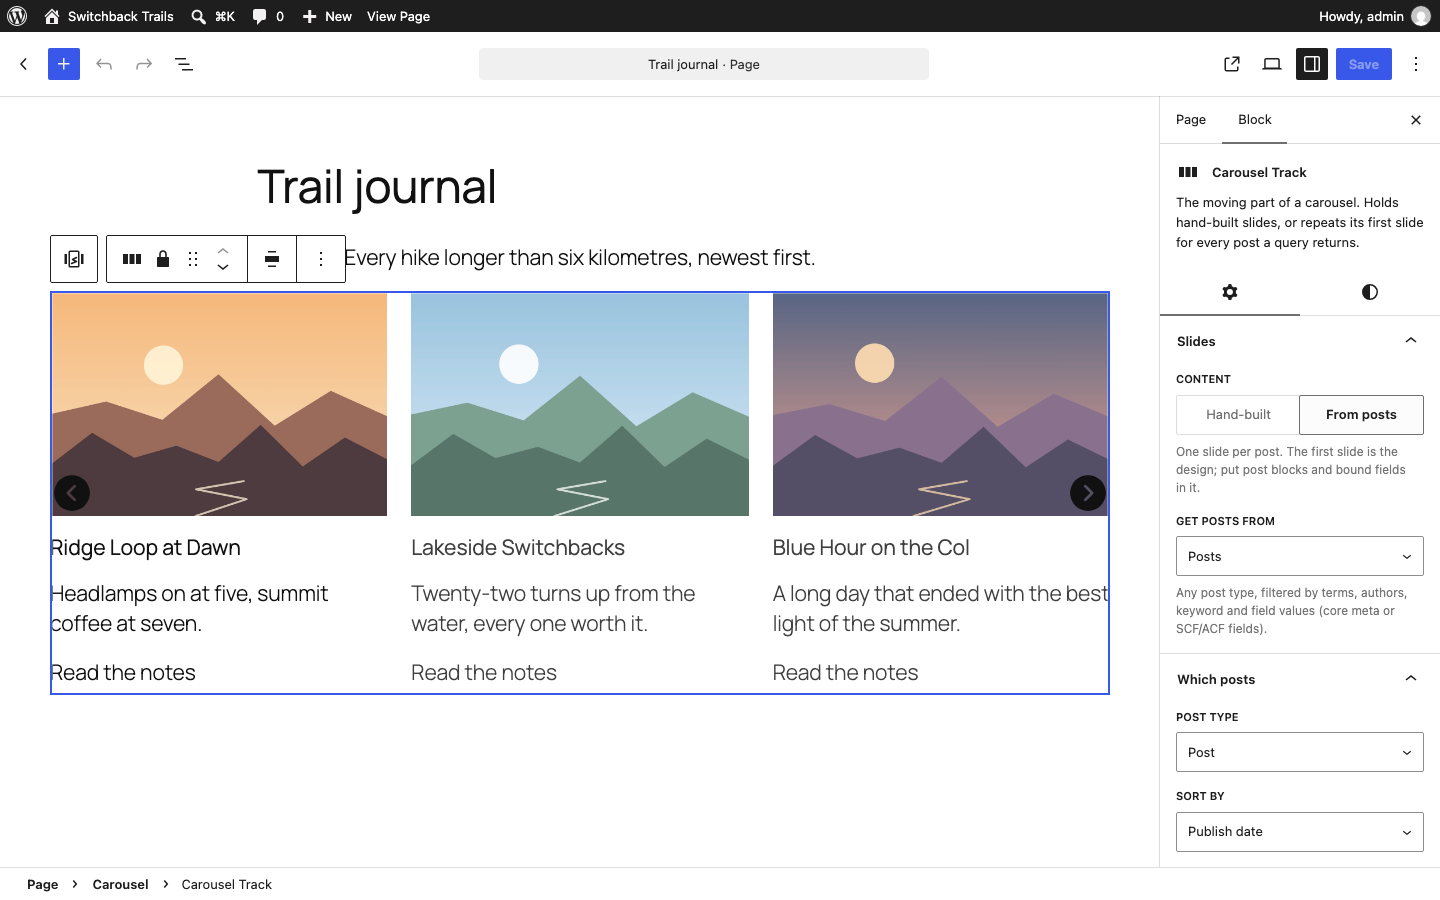
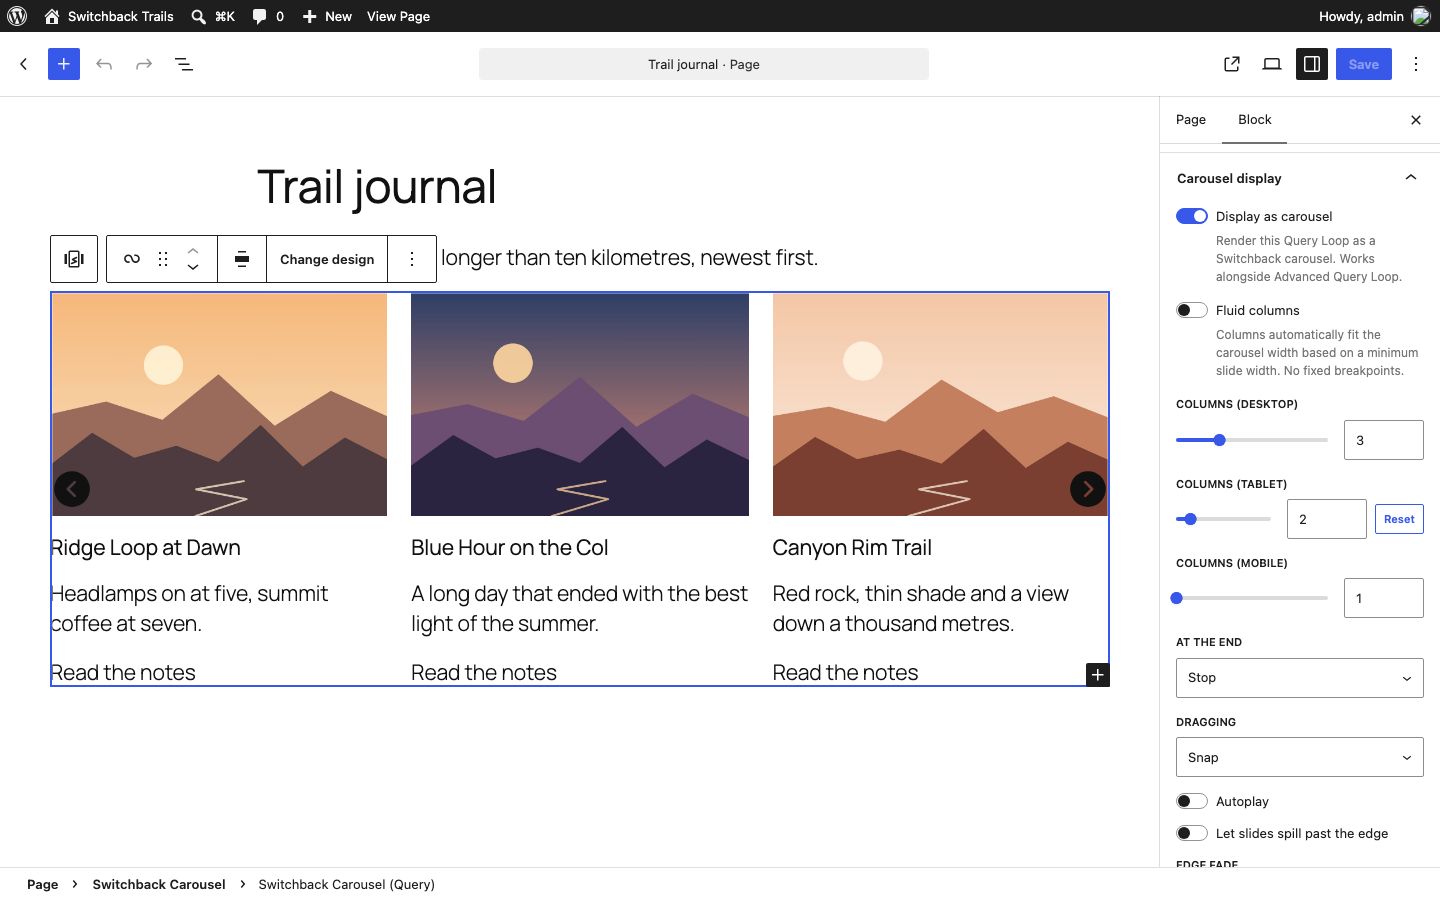
Prepare the WordPress.org release package and screenshots
- .distignore: `.claude` is now unanchored. Editor tooling leaves
  .claude/.cc-writes folders under src/, and deploy.sh rsyncs the
  working tree, so they would have shipped as hidden files, which the
  directory rejects. JS unit tests under src/**/test are excluded too.
- package.json `files` excludes the same tests so `npm run plugin-zip`
  (the zip used for first submission) matches the deployed file list.
- Add @wordpress/hooks, which variation.js imports, to dependencies.
- Screenshots 2 and 3 showed the removed "From posts" and field-rule
  UI. The seed now builds the journal from the Latest posts pattern with
  an AQL meta query (distance > 10), and capture.js shots the Carousel
  display panel and AQL's meta query builder. Captions updated.
- seed.php wraps post content in wp_slash(); wp_insert_post() was
  stripping the backslashes from the block JSON's \u escapes.
- capture.js looks up page IDs without an empty REST nonce, which WP
  7.1 rejects.
- README/readme.txt: tokens apply to AQL meta query values, not its
  date fields.

diff --git a/scripts/screenshots/capture.js b/scripts/screenshots/capture.js
@@ -1,7 +1,7 @@
 /**
  * Capture the WordPress.org screenshots from the wp-env dev site.
  *
- * 1. npm run env:start
+ * 1. npm run env:start (wp-env installs Advanced Query Loop)
  * 2. node scripts/screenshots/images.js
  * 3. npx wp-env run cli --env-cwd=wp-content/plugins/switchback-carousel wp eval-file scripts/screenshots/seed.php
  * 4. node scripts/screenshots/capture.js
@@ -14,9 +14,8 @@ const out = path.join( __dirname, '..', '..', '.wordpress-org' );
 const shot = ( name ) => path.join( out, name );
 
 async function pageId( page, slug ) {
-	const response = await page.request.get( `${ BASE }/?rest_route=/wp/v2/pages&slug=${ slug }&_fields=id`, {
-		headers: { 'X-WP-Nonce': await page.evaluate( () => window.wpApiSettings?.nonce ?? '' ) },
-	} );
+	// Published pages are public; an empty nonce would make REST reject the request.
+	const response = await page.request.get( `${ BASE }/?rest_route=/wp/v2/pages&slug=${ slug }&_fields=id` );
 	return ( await response.json() )[ 0 ].id;
 }
 
@@ -52,7 +51,11 @@ async function sidebarScrollTo( page, text ) {
 		.locator( '.interface-complementary-area' )
 		.getByText( text, { exact: true } )
 		.first()
-		.evaluate( ( el ) => el.scrollIntoView( { block: 'start' } ) );
+		.evaluate( ( el ) => {
+			el.scrollIntoView( { block: 'start' } );
+			// Clear the sticky block card and tabs at the top of the sidebar.
+			el.closest( '.interface-complementary-area' )?.scrollBy( 0, -56 );
+		} );
 }
 
 async function panel( page, title, open = true ) {
@@ -94,19 +97,20 @@ async function panel( page, title, open = true ) {
 	await front.screenshot( { path: shot( 'screenshot-4.png' ), clip: { x: 0, y: tips.y - 48, width: 1280, height: 760 } } );
 	await front.close();
 
-	// 2. Designing from posts in the editor.
+	// 2. A Query Loop shown as a carousel: the Carousel display panel.
 	await openEditor( page, 'trail-journal' );
-	await select( page, 'switchback-carousel/track' );
-	await panel( page, 'Slides', true );
-	await panel( page, 'Which posts', true );
+	await select( page, 'core/query' );
+	await panel( page, 'Carousel display', true );
+	await sidebarScrollTo( page, 'Carousel display' );
+	await page.waitForTimeout( 500 );
 	await page.screenshot( { path: shot( 'screenshot-2.png' ) } );
 
-	// 3. Field value filtering.
-	await panel( page, 'Slides', false );
-	await panel( page, 'Layout', false );
-	await sidebarScrollTo( page, 'Narrow it down' );
-	await page.waitForTimeout( 500 );
+	// 3. Advanced Query Loop's meta query filtering the same carousel.
+	await panel( page, 'Carousel display', false );
+	await page.getByRole( 'button', { name: 'Open Post Meta query builder' } ).click();
+	await page.waitForTimeout( 800 );
 	await page.screenshot( { path: shot( 'screenshot-3.png' ) } );
+	await page.keyboard.press( 'Escape' );
 
 	// 5. Controls and the icon picker.
 	await openEditor( page, 'trail-tips' );

diff --git a/scripts/screenshots/seed.php b/scripts/screenshots/seed.php
@@ -15,27 +15,11 @@ require_once ABSPATH . 'wp-admin/includes/media.php';
 $dir = dirname( __DIR__, 2 ) . '/artifacts/screenshots/images';
 
 // Start clean.
-foreach ( get_posts( array( 'post_type' => array( 'post', 'page', 'attachment', 'acf-field-group', 'acf-field' ), 'numberposts' => -1, 'post_status' => 'any', 'fields' => 'ids' ) ) as $id ) {
+foreach ( get_posts( array( 'post_type' => array( 'post', 'page', 'attachment' ), 'numberposts' => -1, 'post_status' => 'any', 'fields' => 'ids' ) ) as $id ) {
 	wp_delete_post( $id, true );
 }
 update_option( 'blogname', 'Switchback Trails' );
 update_option( 'blogdescription', 'Notes from the high country' );
-
-// SCF field group: distance (number) and hike date (date picker).
-if ( function_exists( 'acf_import_field_group' ) ) {
-	acf_import_field_group(
-		array(
-			'key'      => 'group_trail_details',
-			'title'    => 'Trail details',
-			'fields'   => array(
-				array( 'key' => 'field_trail_distance', 'name' => 'distance', 'label' => 'Distance (km)', 'type' => 'number' ),
-				array( 'key' => 'field_trail_date', 'name' => 'hike_date', 'label' => 'Hike date', 'type' => 'date_picker', 'return_format' => 'F j, Y', 'display_format' => 'F j, Y' ),
-				array( 'key' => 'field_trail_region', 'name' => 'region', 'label' => 'Region', 'type' => 'text' ),
-			),
-			'location' => array( array( array( 'param' => 'post_type', 'operator' => '==', 'value' => 'post' ) ) ),
-		)
-	);
-}
 
 $trails = array(
 	array( 'Ridge Loop at Dawn', 12.4, 'Coast Mountains', 'Headlamps on at five, summit coffee at seven.' ),
@@ -64,9 +48,8 @@ foreach ( $trails as $index => list( $title, $distance, $region, $excerpt ) ) {
 			'post_category' => array( $distance > 12 ? $categories['Overnights'] : $categories['Day hikes'] ),
 		)
 	);
-	update_field( 'distance', $distance, $id );
-	update_field( 'hike_date', gmdate( 'Ymd', strtotime( '-' . ( $index * 9 + 4 ) . ' days' ) ), $id );
-	update_field( 'region', $region, $id );
+	update_post_meta( $id, 'distance', $distance );
+	update_post_meta( $id, 'region', $region );
 
 	$source = $dir . '/trail-' . ( $index + 1 ) . '.jpg';
 	$tmp    = wp_tempnam( $source );
@@ -80,12 +63,18 @@ foreach ( $trails as $index => list( $title, $distance, $region, $excerpt ) ) {
 $registry = WP_Block_Patterns_Registry::get_instance();
 $pattern  = static fn( string $slug ): string => $registry->get_registered( 'switchback-carousel/' . $slug )['content'];
 
-// Screenshot 1 & 2: posts carousel with overlay arrows, filtered by distance.
+// Screenshots 1–3: the Latest posts pattern (a Query Loop with carousel
+// display on, in Advanced Query Loop's namespace) filtered by an AQL meta
+// query on distance.
 $journal = str_replace(
-	'{"mode":"query",',
-	'{"mode":"query","query":{"postType":"post","limit":8,"sort":{"by":"date","direction":"desc"},"fields":{"match":"all","rules":[{"field":"distance","operator":"gt","value":"6","cast":"decimal"}]}},',
-	$pattern( 'latest-posts' )
+	'"query":{"postType":"post","perPage":6,',
+	'"query":{"postType":"post","perPage":8,"meta_query":{"relation":"AND","queries":[{"id":"distance","meta_key":"distance","meta_value":"10","meta_compare":"\u003e","meta_type":"DECIMAL"}]},',
+	$pattern( 'latest-posts' ),
+	$count
 );
+if ( 1 !== $count ) {
+	WP_CLI::error( 'Latest posts pattern changed shape; update the meta query splice.' );
+}
 $journal = str_replace( '<!-- wp:post-date /-->', '<!-- wp:post-excerpt {"moreText":"Read the notes","excerptLength":14} /-->', $journal );
 
 wp_insert_post(
@@ -94,7 +83,8 @@ wp_insert_post(
 		'post_status'  => 'publish',
 		'post_title'   => 'Trail journal',
 		'post_name'    => 'trail-journal',
-		'post_content' => '<!-- wp:paragraph {"align":"center"} --><p class="has-text-align-center">Every hike longer than six kilometres, newest first.</p><!-- /wp:paragraph -->' . $journal,
+		// wp_insert_post() unslashes; keep the JSON's \u escapes intact.
+		'post_content' => wp_slash( '<!-- wp:paragraph {"align":"center"} --><p class="has-text-align-center">Every hike longer than ten kilometres, newest first.</p><!-- /wp:paragraph -->' . $journal ),
 	)
 );
 
@@ -121,9 +111,11 @@ wp_insert_post(
 		'post_status'  => 'publish',
 		'post_title'   => 'Trail tips',
 		'post_name'    => 'trail-tips',
-		'post_content' => '<!-- wp:heading --><h2 class="wp-block-heading">Before you go</h2><!-- /wp:heading -->' . $cards
+		'post_content' => wp_slash(
+			'<!-- wp:heading --><h2 class="wp-block-heading">Before you go</h2><!-- /wp:heading -->' . $cards
 			. '<!-- wp:spacer {"height":"48px"} --><div style="height:48px" aria-hidden="true" class="wp-block-spacer"></div><!-- /wp:spacer -->'
-			. '<!-- wp:heading --><h2 class="wp-block-heading">What readers say</h2><!-- /wp:heading -->' . $quotes,
+			. '<!-- wp:heading --><h2 class="wp-block-heading">What readers say</h2><!-- /wp:heading -->' . $quotes
+		),
 	)
 );
 

diff --git a/README.md b/README.md
@@ -69,7 +69,9 @@ Start from an Advanced Query Loop block rather than the **Switchback Carousel (Q
 
 ### Relative dates and tokens
 
-Switchback expands tokens in the final query arguments of every Query Loop. It hooks `query_loop_block_query_vars` for core and `aql_query_vars` for AQL, both at priority 20, after AQL has built its arguments. You can type relative values into AQL's meta and date fields instead of fixed dates. For example, a meta query of "`event_date` is at least `{today_ymd}`" makes an upcoming-events carousel that never goes stale.
+Switchback expands tokens in the final query arguments of every Query Loop. It hooks `query_loop_block_query_vars` for core and `aql_query_vars` for AQL, both at priority 20, after AQL has built its arguments. The main use is AQL's **meta query** values: a meta query of "`event_date` is greater than or equal to `{today_ymd}`" makes an upcoming-events carousel that never goes stale.
+
+Tokens don't work in AQL's date query fields. AQL splits those dates into year, month and day before Switchback sees them, and its date picker doesn't accept typed text. For relative post dates, use AQL's built-in "before/after the current date" options.
 
 | Token | Becomes |
 |---|---|
